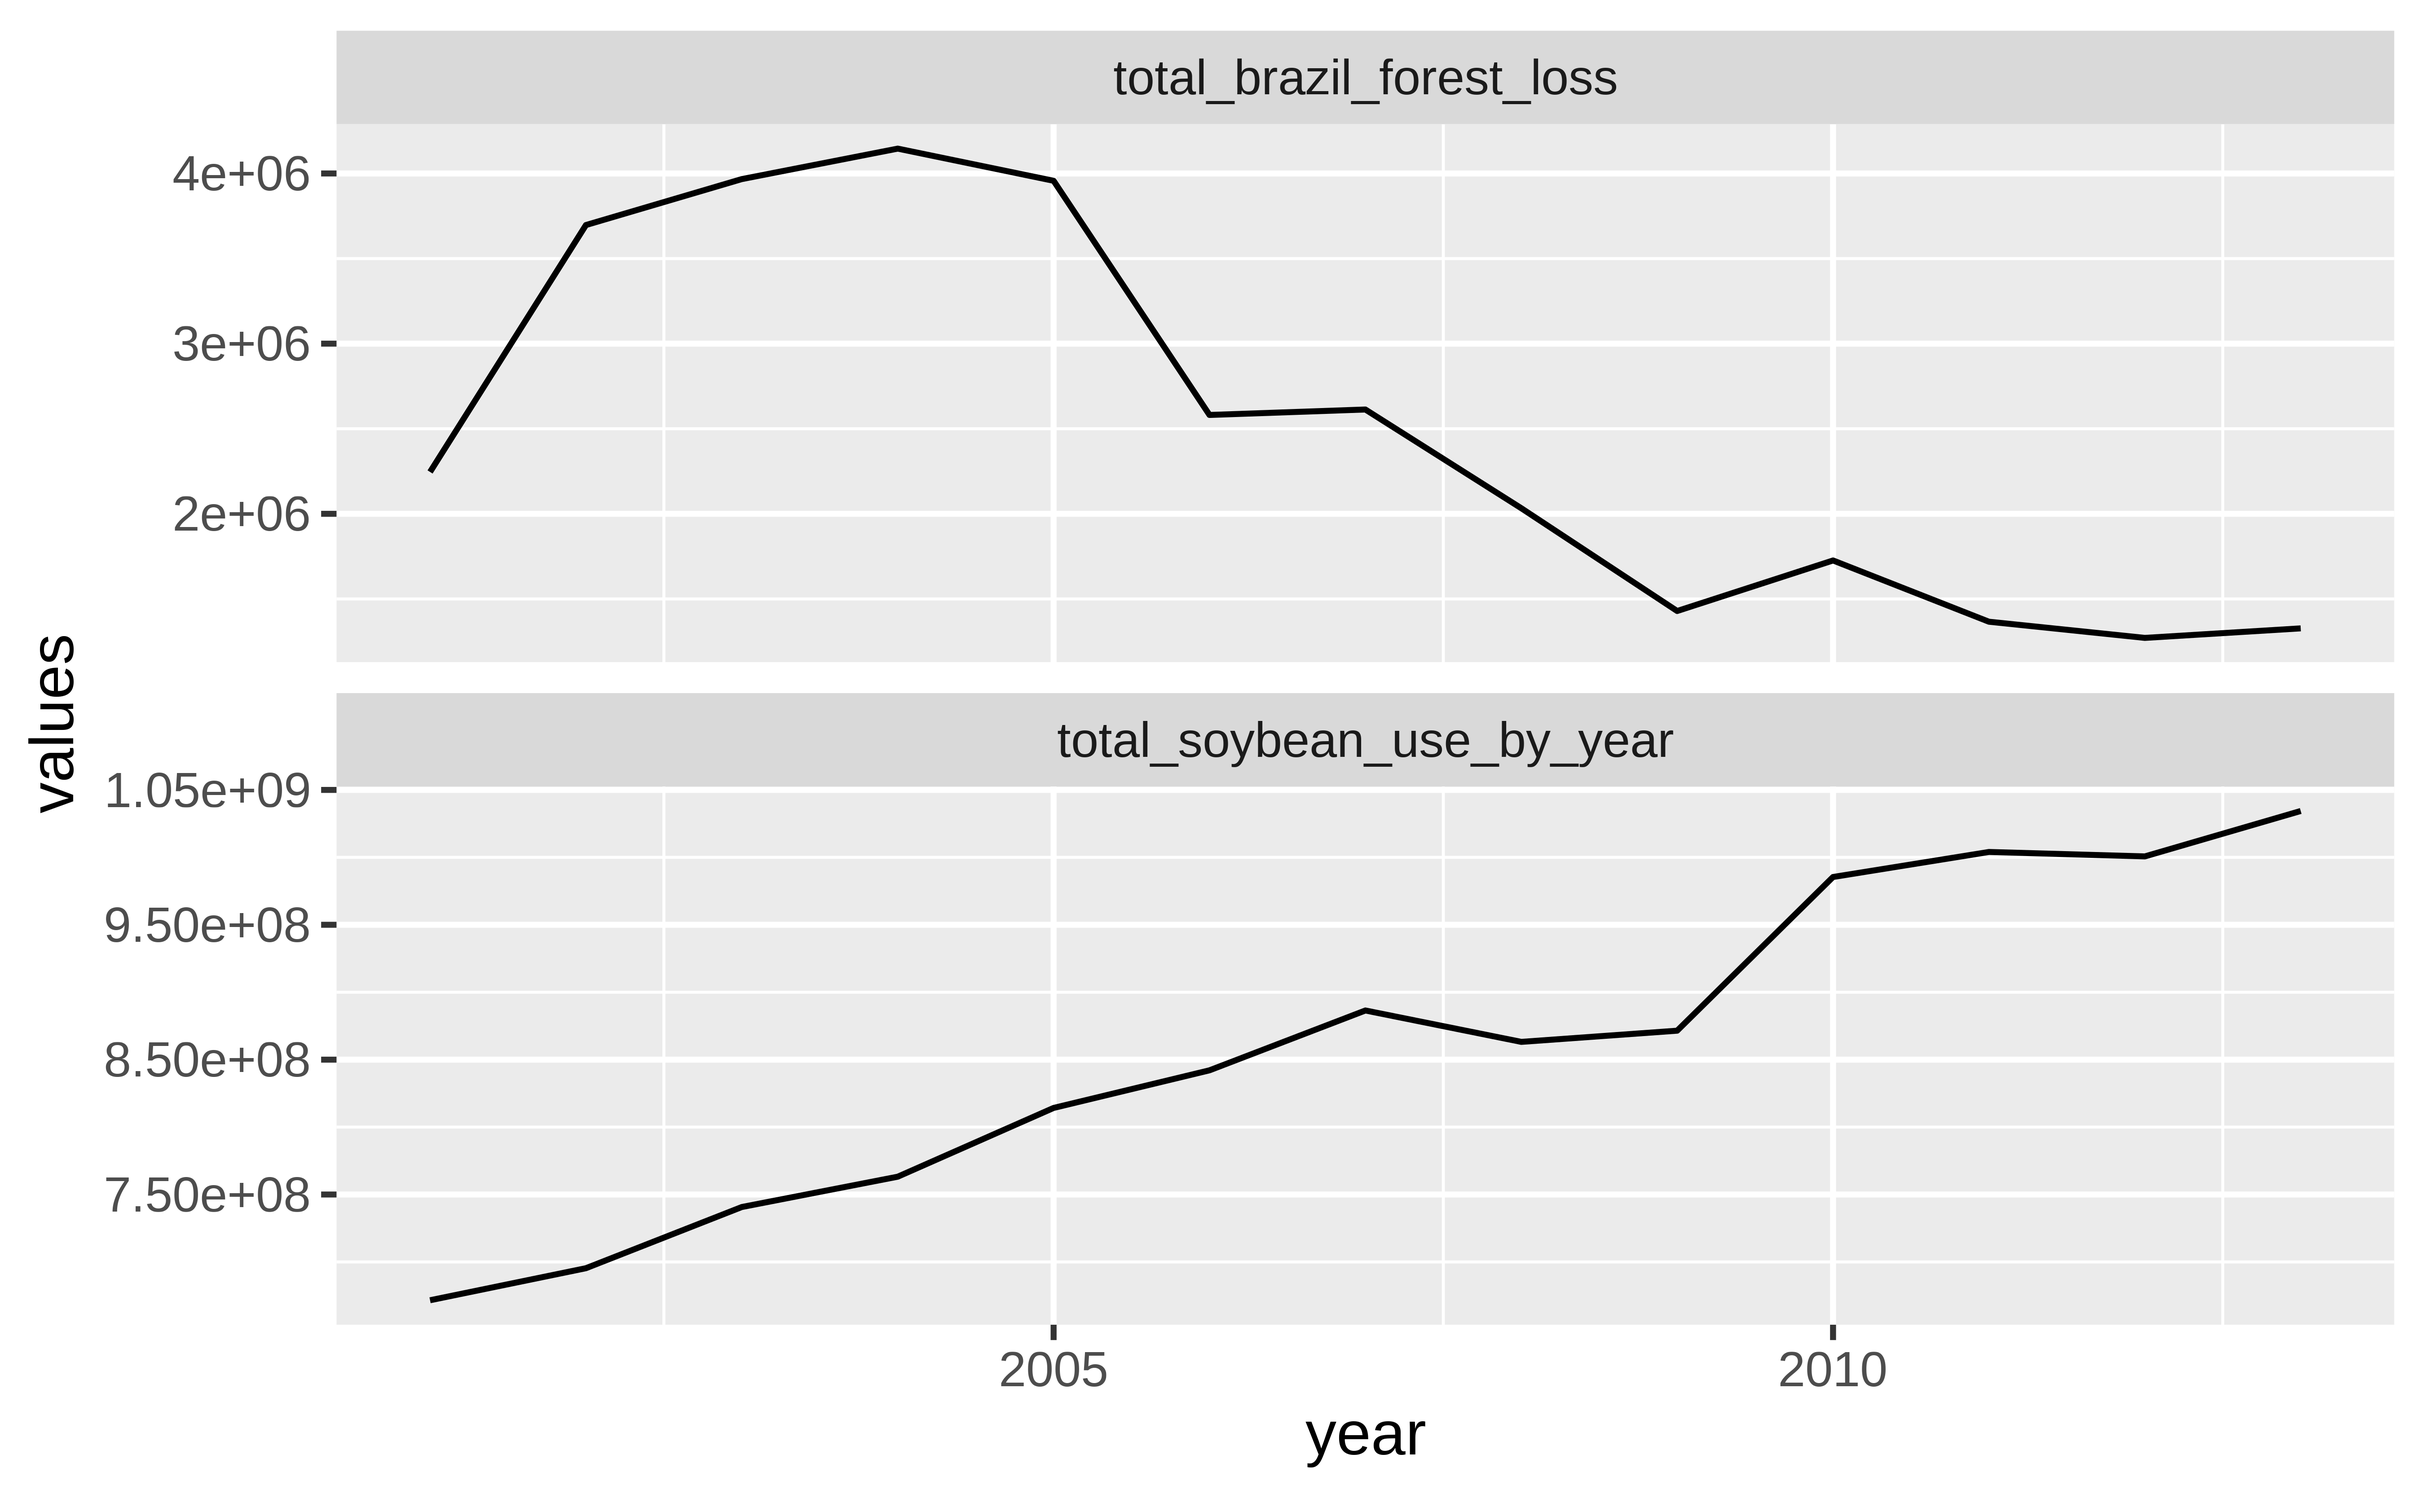
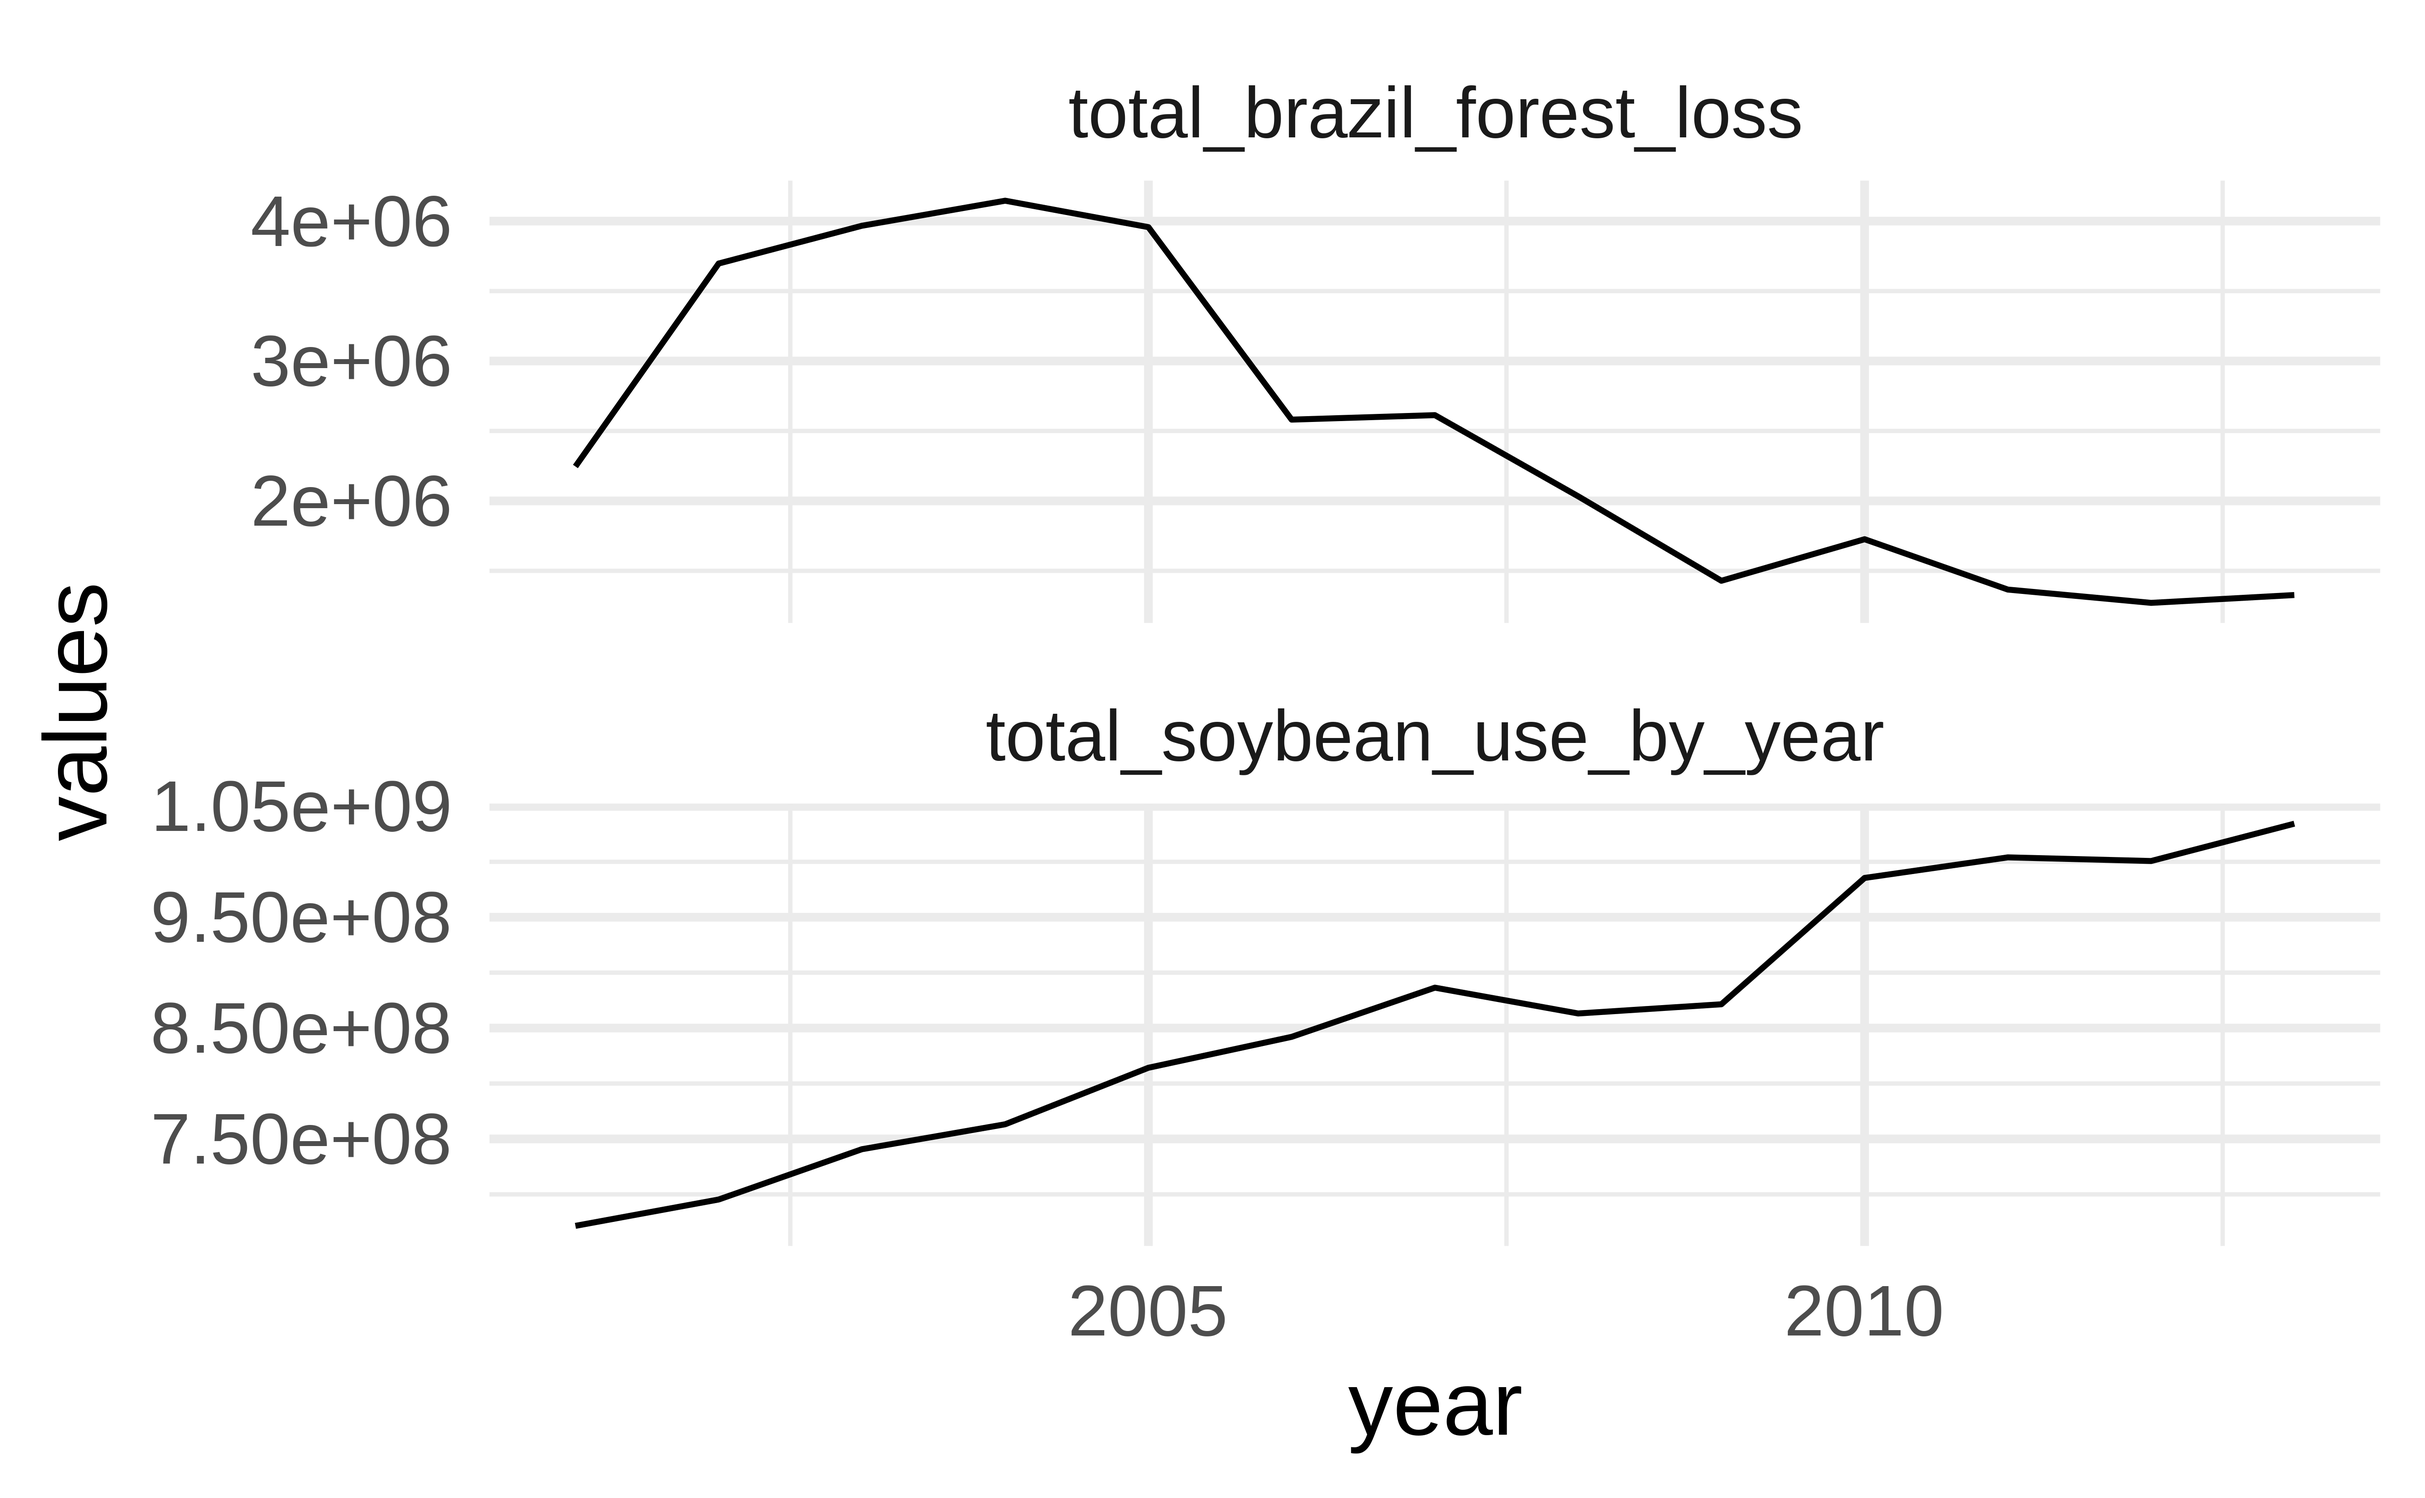
Q2 plot first draft.

diff --git a/presentation/presentation.html b/presentation/presentation.html
@@ -1,7 +1,7 @@
 <!DOCTYPE html>
 <html lang="" xml:lang="">
   <head>
-    <title>Global Deforestation</title>
+    <title>Deforestation</title>
     <meta charset="utf-8" />
     <meta name="author" content="Team 5 Look Alive   Krystal Hu, Kate Neal, Owen Henry" />
     <meta name="date" content="2021-09-29" />
@@ -11,7 +11,7 @@
     <textarea id="source">
 class: center, middle, inverse, title-slide
 
-# Global Deforestation
+# Deforestation
 ## Is soybean use driving global deforestation?
 ### Team 5 Look Alive <br> Krystal Hu, Kate Neal, Owen Henry
 ### Duke University
@@ -78,42 +78,12 @@ class: inverse, middle, center
 ---
 ## Plot for Q2
 
-
-```r
-soybean_use %&gt;%
-  group_by(year) %&gt;%
-  summarise(total_human = sum(human_food, na.rm = T),
-            total_animal = sum(animal_feed, na.rm = T)) %&gt;%
-  ggplot(., aes(x = year)) +
-  geom_line(aes(y = total_human), color = "red") +
-  geom_line(aes(y = total_animal), color = "blue")
-```
-
 &lt;img src="presentation_files/figure-html/question_2_plot-1.png" width="70%" /&gt;
 
-```r
-data2 &lt;-soybean_use %&gt;%
-  group_by(year) %&gt;%
-  summarise(total_human = sum(human_food, na.rm = T),
-            total_animal = sum(animal_feed, na.rm = T)) %&gt;%
-  pivot_longer(!year, 
-              names_to = "Type of Use",
-              values_to = "Amount") 
-
-
-for (i in 1961:2013) {
- data2 %&gt;%
-    filter (year == i) %&gt;%
-    mutate (prop = Amount/sum(Amount)) 
-  }
-
-view(data2)
-```
 
 
 
-
-
+---
 
 
 
